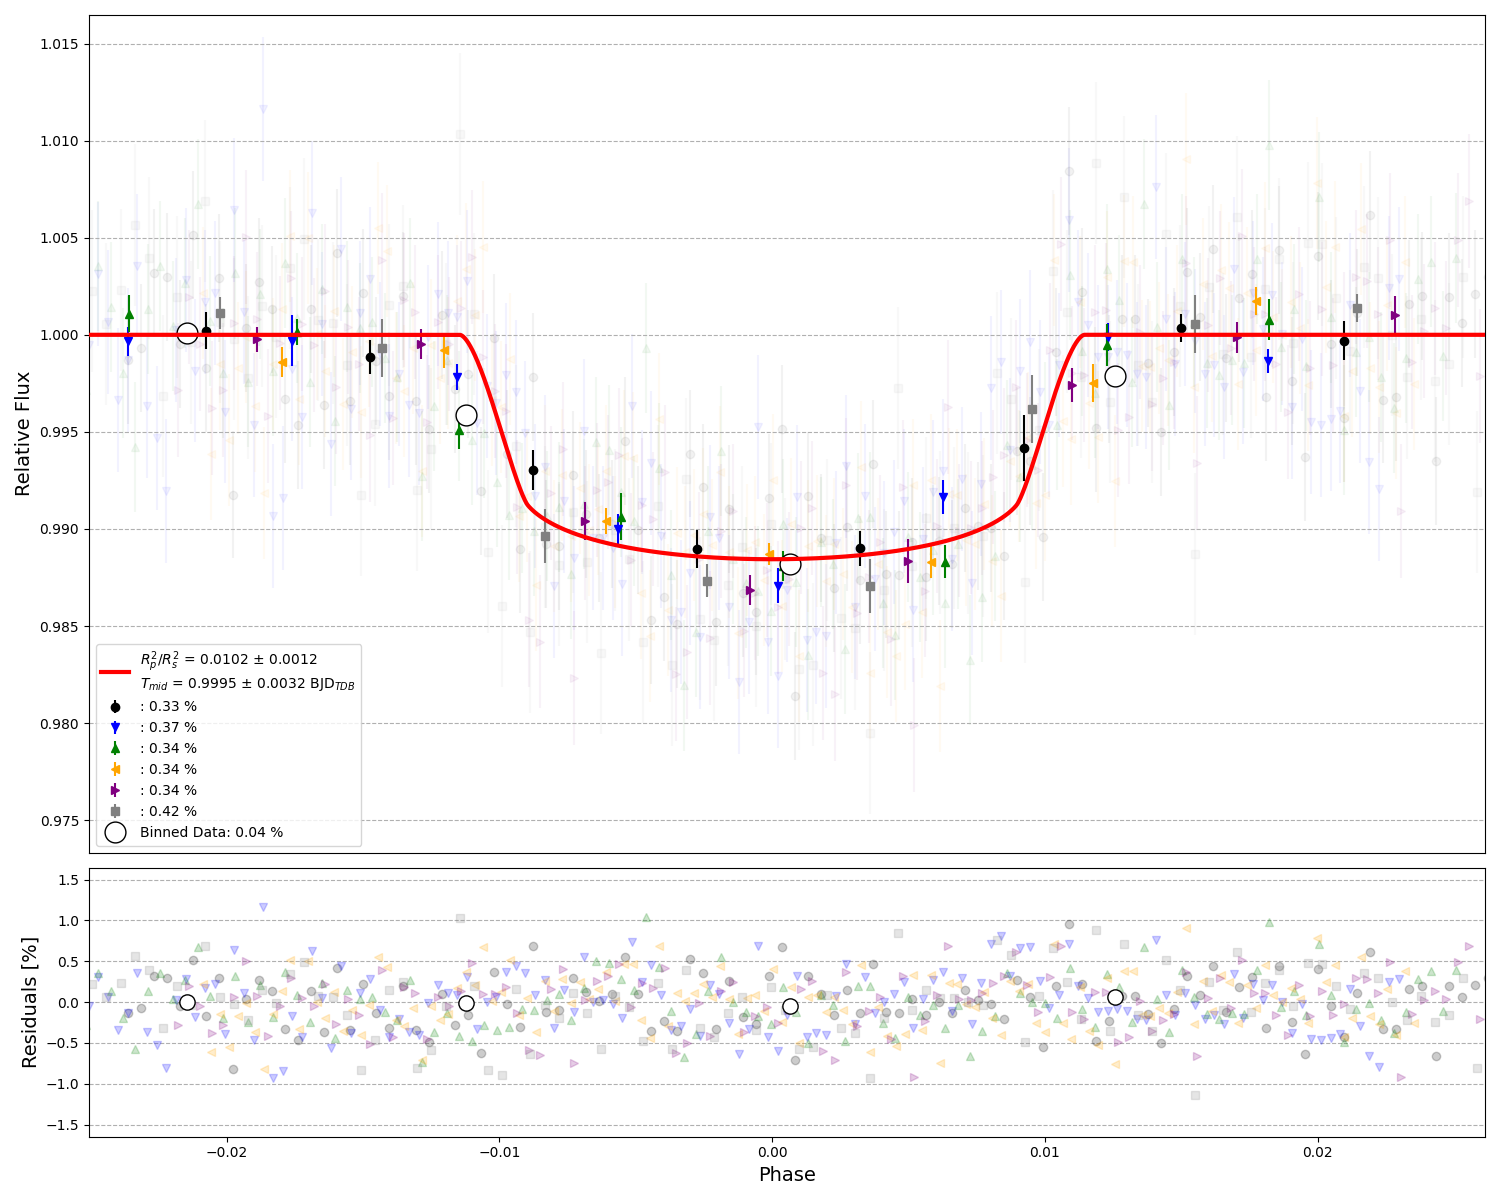
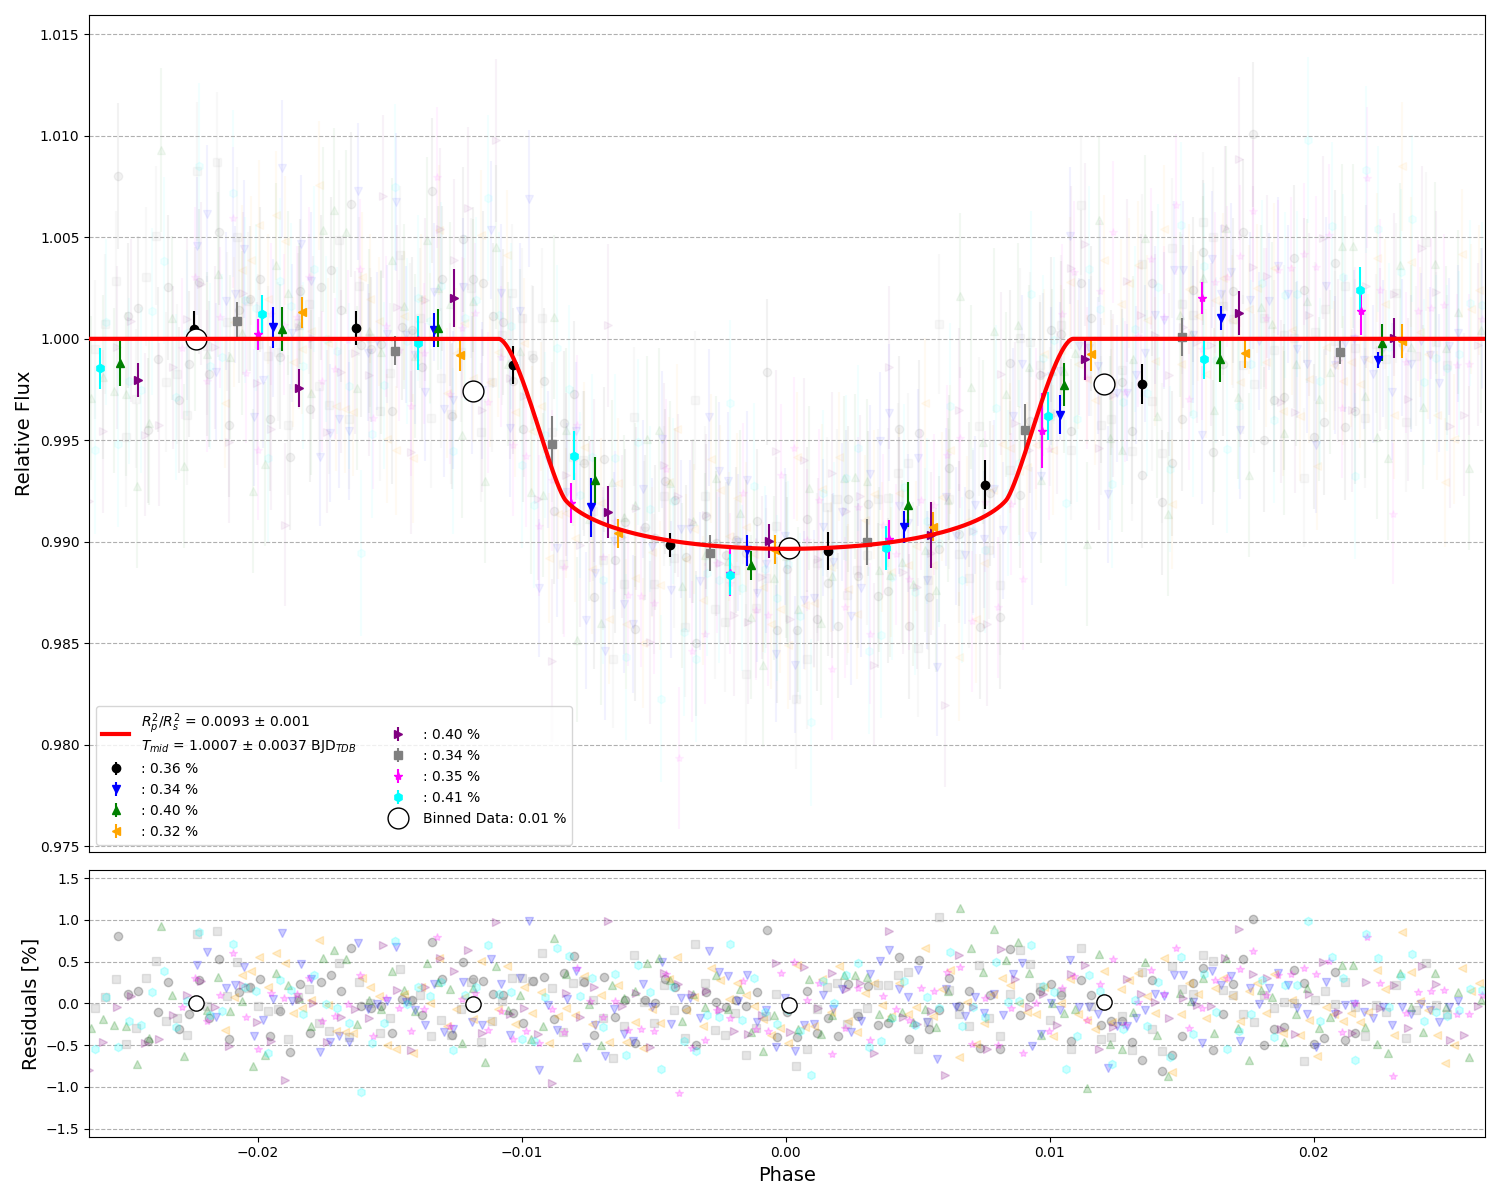
multifit figures

diff --git a/examples/multiple_transit/multi_fit_example.py b/examples/multiple_transit/multi_fit_example.py
@@ -6,7 +6,7 @@ from exotic.api.elca import transit, glc_fitter
 if __name__ == "__main__":
 
     # simulate input data
-    epochs = np.random.choice(np.arange(100), 6, replace=False)
+    epochs = np.random.choice(np.arange(100), 8, replace=False)
     input_data = []
     local_bounds = []
 
